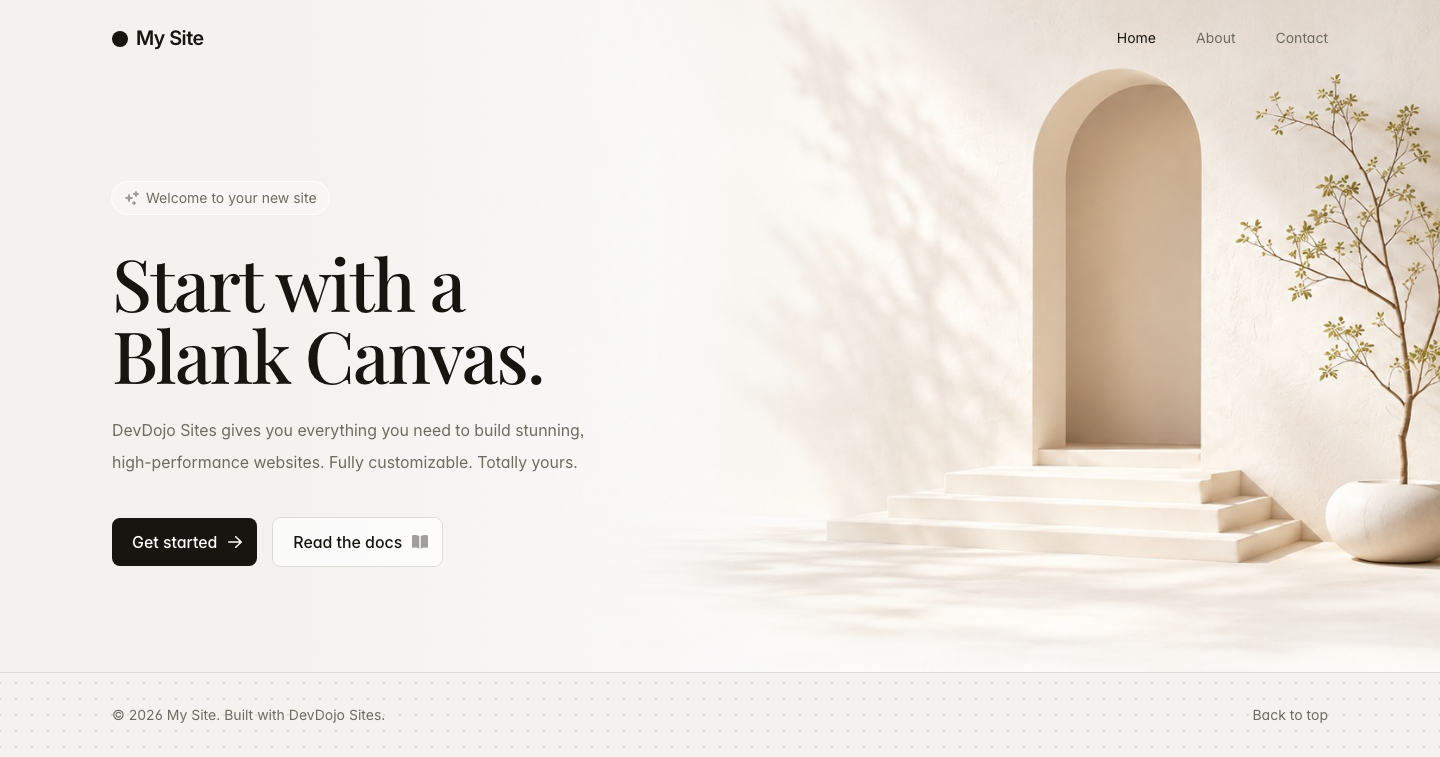
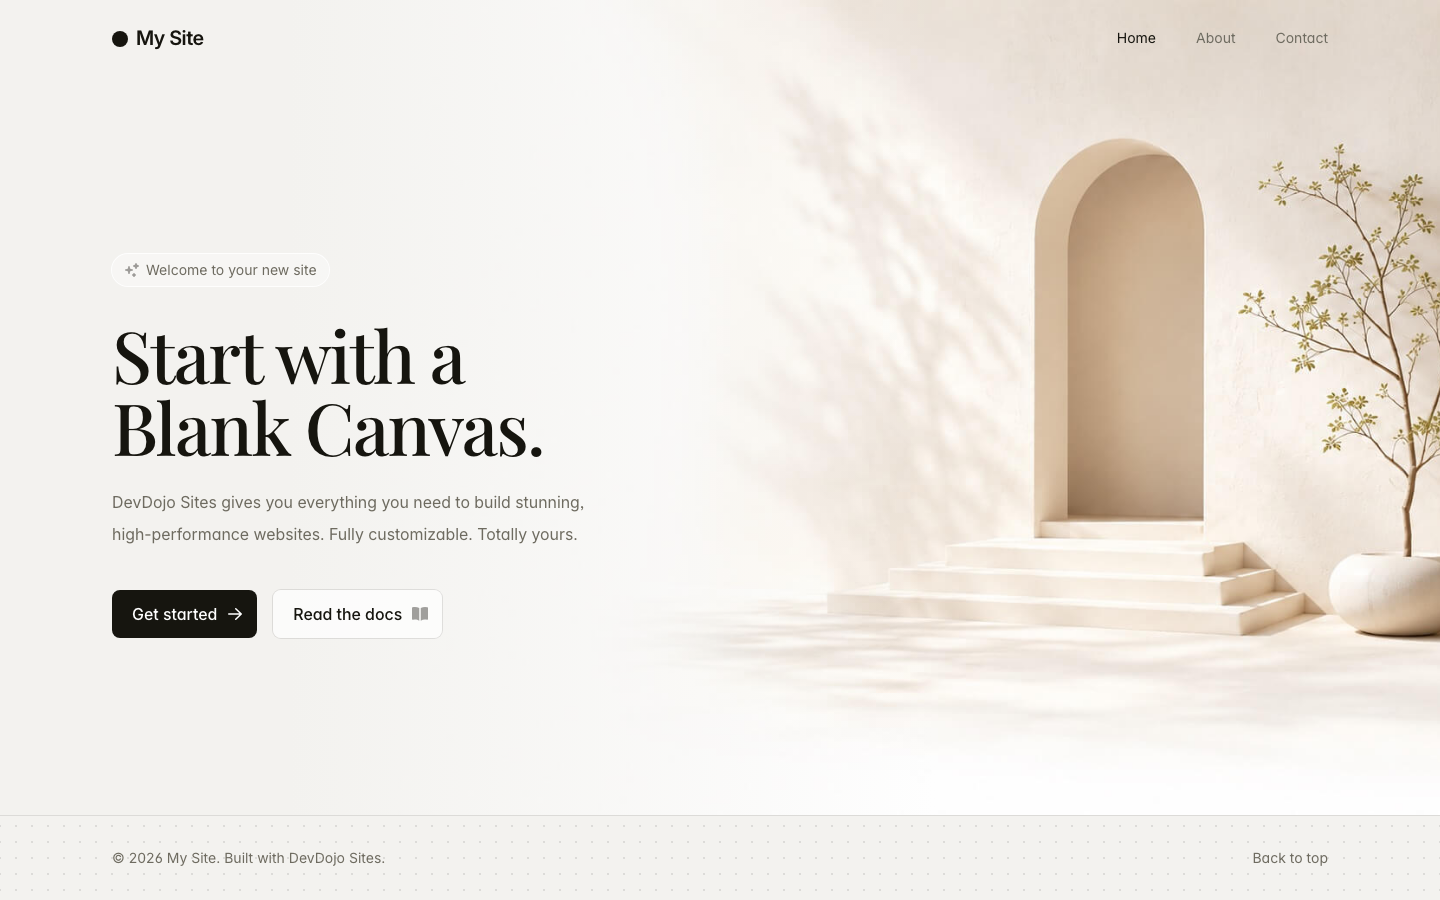
Adding latest

diff --git a/files/resources/views/components/nav.blade.html b/files/resources/views/components/nav.blade.html
@@ -1,4 +1,4 @@
-@props(['brand' => 'My Site'])
+@props(['brand' => 'Website'])
 <!--
     Global nav component. Rendered by the layout on every page; the brand
     prop comes from nav.yml (editable in Visual mode's Layout tab).
@@ -12,7 +12,7 @@
         <!-- href="/" always points to your site's root, in preview and when published -->
         <a href="/" aria-label="Homepage" class="flex shrink-0 items-center gap-2">
             <span class="block size-4 translate-y-px rounded-full bg-ink"></span>
-            <span class="text-xl font-semibold tracking-tight">{{ $brand }}</span>
+            <span class="text-xl lowercase font-semibold tracking-tight">{{ $brand }}</span>
         </a>
 
         <nav class="max-lg:hidden">
